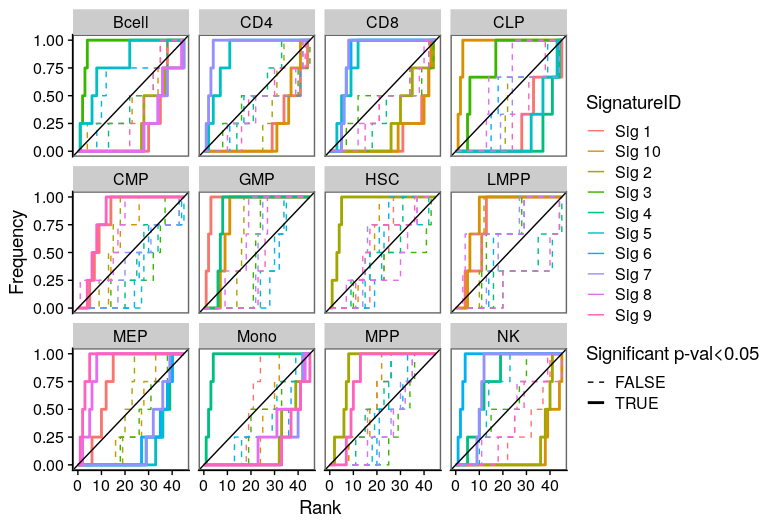
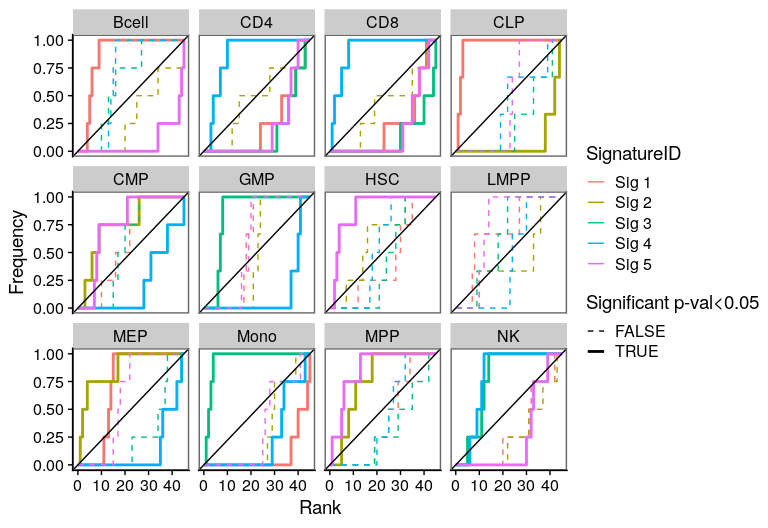
signatures

diff --git a/session3/02_signature_identification.md b/session3/02_signature_identification.md
@@ -1,0 +1,192 @@
+# Signature idenfication
+
+After completing the matrix decomposition step and selecting a candidate optimal factorization rank, the matrix H can be visualized to explore the signatures, the signature quality can be assessed using a riverplot visualization, and the association of a signature with a biological or clinical variable can be inferred with a recovery analysis.
+
+## H Matrix sample exposure:  
+
+Visualize exposure of the samples to the decomposed signatures as a heatmap, for a selected factorization rank.
+  
+  
+```r
+##----------------------------------------------------------------------------##
+##                        H matrix heatmap annotation                         ##
+##----------------------------------------------------------------------------##
+#Annotation for H matrix heatmap
+corces_rna_annot_tmp <- corces_rna_annot %>% 
+  mutate(Celltype = factor(Celltype, levels = c("HSC", "MPP", "LMPP",
+                                                "CMP", "GMP", "MEP",
+                                                "CLP", "CD4", "CD8",
+                                                "NK", "Bcell", "Mono")))
+
+type.colVector <- corces_rna_annot_tmp %>% 
+  select(Celltype, color) %>% 
+  arrange(Celltype) %>% 
+  distinct() %>% 
+  deframe()
+
+type.colVector <- list(Celltype = type.colVector)
+
+# Build Heatmap annotation
+heat.anno <- HeatmapAnnotation(df  = corces_rna_annot_tmp[,"Celltype",drop=FALSE],
+                               col = type.colVector,
+                               show_annotation_name = TRUE, na_col = "white")
+
+##----------------------------------------------------------------------------##
+##              Generate H matrix heatmap, W normalized                       ##
+##----------------------------------------------------------------------------##
+ki <- 8
+tmp.hmatrix <- HMatrix(rna_norm_nmf_exp, k = ki)
+Heatmap(tmp.hmatrix,
+        col = viridis(100),
+        name = paste0("Exposure ", ki),
+        clustering_distance_columns = 'pearson',
+        show_column_dend = TRUE,
+        heatmap_legend_param = 
+          list(color_bar = "continuous", legend_height=unit(2, "cm")),
+        top_annotation = heat.anno,
+        show_column_names = FALSE,
+        show_row_names = FALSE,
+        cluster_rows = FALSE)
+```
+
+<details>
+<summary><b>Click for Answer</b></summary>
+  
+### H matrix for k= 2   
+  <img src="figs/rna_Hmatrix_Wnorm-1.png" width="90%" />
+  
+### H matrix for k= 3   
+  <img src="figs/rna_Hmatrix_Wnorm-2.png" width="90%" />
+  
+### H matrix for k= 4   
+  <img src="figs/rna_Hmatrix_Wnorm-3.png" width="90%" />
+  
+### H matrix for k= 5   
+  <img src="figs/rna_Hmatrix_Wnorm-4.png" width="90%" />
+  
+### H matrix for k= 6   
+  <img src="figs/rna_Hmatrix_Wnorm-5.png" width="90%" />
+  
+### H matrix for k= 7   
+  <img src="figs/rna_Hmatrix_Wnorm-6.png" width="90%" />
+  
+### H matrix for k= 8   
+  <img src="figs/rna_Hmatrix_Wnorm-7.png" width="90%" />
+  
+### H matrix for k= 9   
+  <img src="figs/rna_Hmatrix_Wnorm-8.png" width="90%" />
+  
+### H matrix for k= 10  
+  <img src="figs/rna_Hmatrix_Wnorm-9.png" width="90%" />
+</details>
+  
+
+## Signature estability - Riverplot visualization
+
+Riverplot representation of the extracted signatures at different factorization ranks. The nodes represent the signatures, the edge strength encodes cosine similarity between signatures linked by the edges. 
+
+
+```r
+river <- generateRiverplot(rna_norm_nmf_exp, ranks = 2:8)
+plot(river, plot_area=1, yscale=0.6, nodewidth=0.5)
+```
+
+<details>
+<summary><b>Click for Answer</b></summary>
+![](figs/rna_NMF_river-1.png)
+</details>
+
+
+## Cluster identification - UMAP
+
+A common practice to identify clusters of samples in single-cell and bulk omics datasets is to perform a dimensionality reduction step with PCA, followed by tSNE or UMAP. The resulting matrix H from the NMF decomposition can be used in the same fashion.
+
+Cluster identification by running UMAP on the matrix H:
+
+
+```r
+##----------------------------------------------------------------------------##
+##                         UMAP H matrix                                      ##
+##----------------------------------------------------------------------------##
+hmatrix_norm <- HMatrix(rna_norm_nmf_exp, k = 8)
+umapView <- umap(t(hmatrix_norm))
+
+
+umapView_df <- as.data.frame(umapView$layout)
+colnames(umapView_df) <- c("UMAP1", "UMAP2")
+
+type_colVector <- corces_rna_annot %>% 
+  dplyr::select(Celltype, color) %>% 
+  arrange(Celltype) %>% 
+  distinct() %>% 
+  deframe()
+
+
+umapView_df %>% 
+  rownames_to_column("sampleID") %>% 
+  left_join(corces_rna_annot, by = "sampleID") %>% 
+  mutate(Celltype = factor(Celltype, levels = c("HSC", "MPP", "LMPP",
+                                                "CMP", "GMP", "MEP",
+                                                "CLP", "CD4", "CD8",
+                                                "NK", "Bcell", "Mono"))) %>% 
+  ggplot(aes(x=UMAP1, y=UMAP2, color = Celltype)) + 
+  geom_point(size = 1.5, alpha = 0.95) + 
+  scale_color_manual(values = type_colVector) +
+  theme_cowplot()
+```
+<details>
+<summary><b>Click for Answer</b></summary>
+
+![](figs/umap_Hmatrix-1.png)
+</details>
+
+## Association of signatures to biological variables
+
+One of the most important steps in the identification of molecular signatures, is to find the association of a candidate signature with know biological or clinical variables. In ButchR, it is possible to generate a recovery plot which intuitively shows the degree of association between all the signatures for one factorization rank and one known biological variable.
+
+Make a recovery plot showing the association of the NMF signatures (for a selected factorization rank) to the "Celltype" variable:
+  
+  
+
+```r
+##----------------------------------------------------------------------------##
+##                               Recovery plots                               ##
+##----------------------------------------------------------------------------##
+ki <- 8
+tmp.hmatrix <- HMatrix(rna_norm_nmf_exp, k = ki)
+ButchR::recovery_plot(tmp.hmatrix, corces_rna_annot$Celltype)
+```
+
+
+<details>
+<summary><b>Click for Answer</b></summary>
+
+### Recovery plots for k= 2
+  <img src="figs/recovery-1.png" width="90%" />
+  
+### Recovery plots for k= 3
+  <img src="figs/recovery-2.png" width="90%" />
+  
+### Recovery plots for k= 4
+  <img src="figs/recovery-3.png" width="90%" />
+  
+### Recovery plots for k= 5
+  <img src="figs/recovery-4.png" width="90%" />
+  
+### Recovery plots for k= 6
+  <img src="figs/recovery-5.png" width="90%" />
+  
+### Recovery plots for k= 7
+  <img src="figs/recovery-6.png" width="90%" />
+  
+### Recovery plots for k= 8
+  <img src="figs/recovery-7.png" width="90%" />
+  
+### Recovery plots for k= 9
+  <img src="figs/recovery-8.png" width="90%" />
+  
+### Recovery plots for k= 10
+  <img src="figs/recovery-9.png" width="90%" />
+
+</details>
+

diff --git a/session3/01_optimal_rank.md b/session3/01_optimal_rank.md
@@ -332,6 +332,9 @@ Based on the results of the factorization quality metrics, an optimal number of 
 ## Plot K stats
 gg_plotKStats(rna_norm_nmf_exp)
 ```
+<details>
+<summary><b>Click for Answer</b></summary>
 
 ![](./figs/rna_NMF_optK-1.png)
   
+</details>
